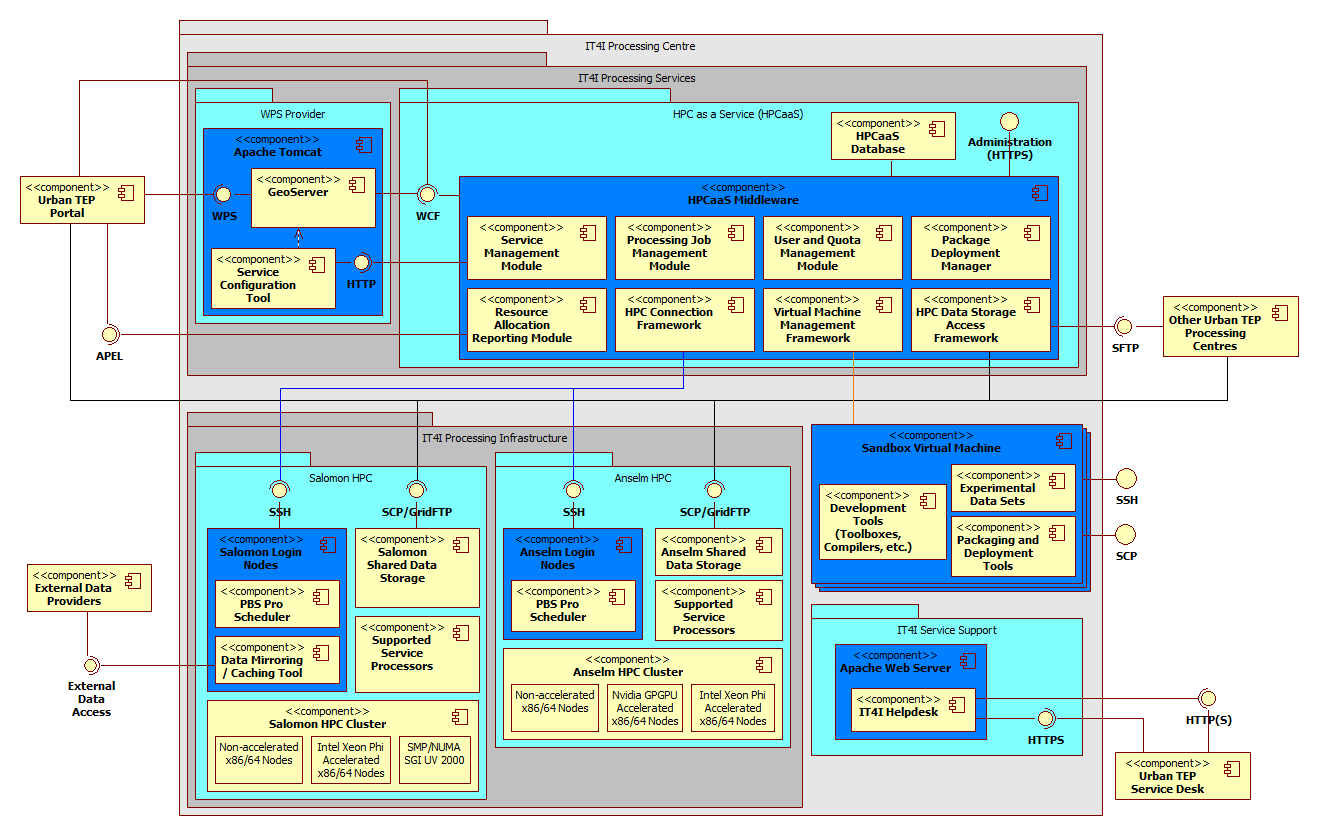
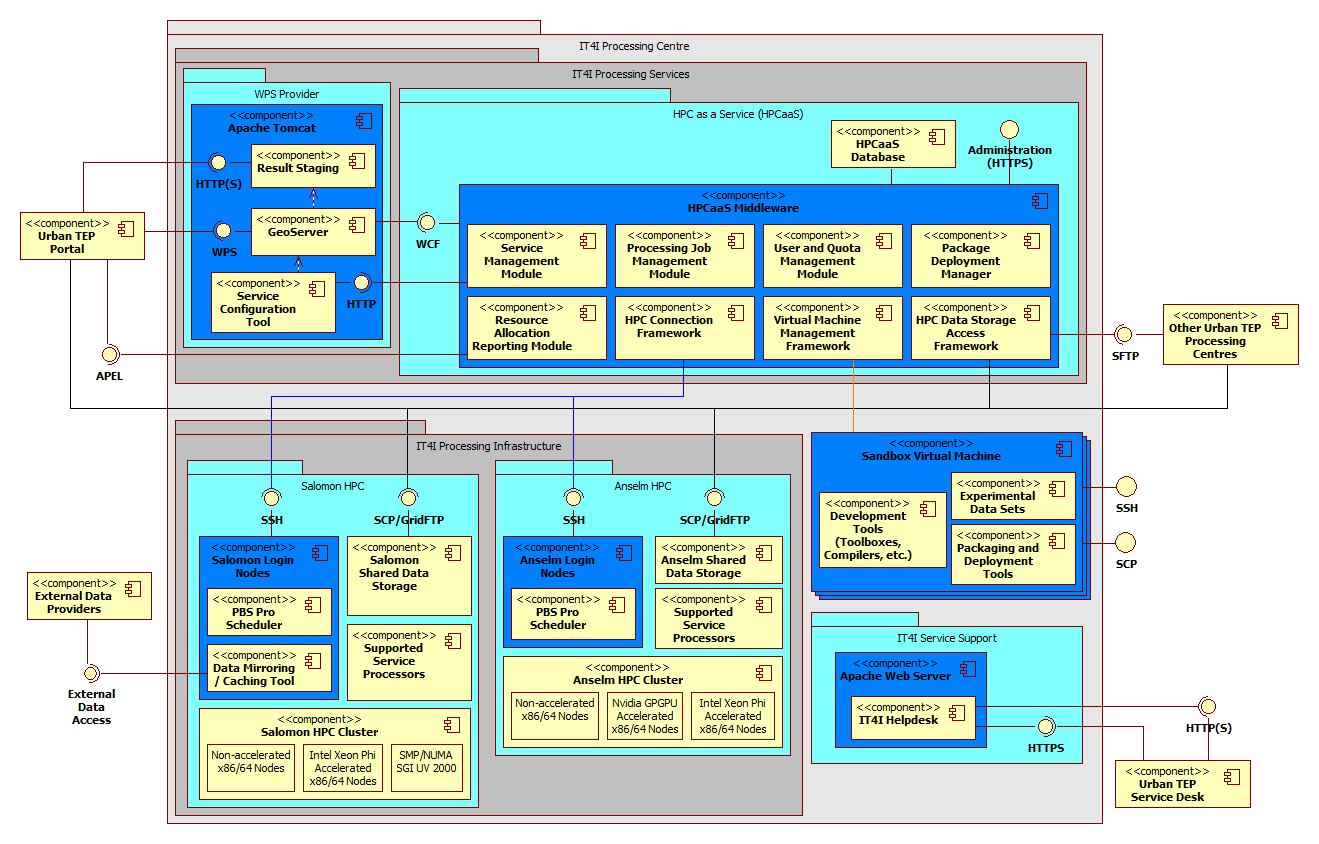
HTTP result staging for IT4I PC
Added HTTP result staging for IT4I PC.
Moved requirement coverage tags to the beginnings of the sections.

diff --git a/source/architecture/it4i-pc/hpc_as_a_service.rst b/source/architecture/it4i-pc/hpc_as_a_service.rst
@@ -2,12 +2,12 @@
 
 IT4I HPC as a Service
 =====================
-The *HPC as a Service Middleware* is an IT4I in-house developed solution designed to simplify the access to HPC resources for internal and external applications. This solution unifies access to different HPC systems in the *IT4I Processing Infrastructure* through a simple object-oriented client-server interface using WCF services. It also ensures all necessary supporting functions like service management, job management, monitoring and reporting, user authentication and authorization, request/result data transfer and encryption and various notification mechanisms. It is therefore the main control component of the IT4I processing centre and integrates most of its processing workflow and configuration functionalities.
-
 .. req:: TS-FUN-710
   :show:
 
   The *HPC as a Service Middleware* and its modules will maintain the list of processing jobs at the IT4I processing centre.
+
+The *HPC as a Service Middleware* is an IT4I in-house developed solution designed to simplify the access to HPC resources for internal and external applications. This solution unifies access to different HPC systems in the *IT4I Processing Infrastructure* through a simple object-oriented client-server interface using WCF services. It also ensures all necessary supporting functions like service management, job management, monitoring and reporting, user authentication and authorization, request/result data transfer and encryption and various notification mechanisms. It is therefore the main control component of the IT4I processing centre and integrates most of its processing workflow and configuration functionalities.
 
 The *HPC as a Service Middleware* is a web-based .NET application that will be deployed on one virtual server in the IT4I virtualisation infrastructure. It will provide a REST-ful WCF service interface for processing all requests from the *GeoServer* and possibly from the *Urban TEP Portal* for non-WPS auxiliary services, and HTTPS administration interface for *IT4I Service Support Operators*. All workflow management and configuration data will be stored in a RDBMS that will be deployed on the same server.
 
@@ -16,8 +16,6 @@ The *HPC as a Service Middleware* defines several modules that cover different c
 
 Service management module
 -------------------------
-The *Service Management Module* manages information and configuration of all processing services supported on the IT4I processing centre. Its main goal is to properly configure the processing jobs that will be submitted to the IT4I clusters based on user inputs and service configuration. It also ensures that service configurations are synchronised with the *WPS Provider* using the *Service Configuration Tool*. All service configurations are stored in the database and administered using the HTTPS administration interface of the *HPC as a Service Middleware*.
-
 .. req:: TS-FUN-680
   :show:
 
@@ -28,23 +26,21 @@ The *Service Management Module* manages information and configuration of all pro
 
   The *Service Management Module* will generate a metadata record and submit it to the *Service Configuration Tool* that will submit it to the catalogue at the IT4I processing centre and subsequently generates a metadata record and submits it to the Urban TEP catalogue.
 
+The *Service Management Module* manages information and configuration of all processing services supported on the IT4I processing centre. Its main goal is to properly configure the processing jobs that will be submitted to the IT4I clusters based on user inputs and service configuration. It also ensures that service configurations are synchronised with the *WPS Provider* using the *Service Configuration Tool*. All service configurations are stored in the database and administered using the HTTPS administration interface of the *HPC as a Service Middleware*.
+
 
 Processing job management module
 --------------------------------
-The *Job Management Module* contains functionality for managing processing jobs sent from the *Urban TEP Portal* on each supported HPC cluster in the IT4I processing infrastructure. This management contains submitting new jobs onto a specific cluster, cancelling a running or queued job on the cluster and getting actual information about individual user's jobs submitted to any managed cluster. Users have to be authenticated through the *User and Quota Management Module* before they can manage their jobs on the cluster. Information about all submitted jobs is stored in the database for monitoring and reporting purposes.
-
 .. req:: TS-FUN-680
   :show:
 
   The *Processing Job Management Module* will submit jobs to execute any of the supported service processors at the IT4I processing centre.
 
+The *Job Management Module* contains functionality for managing processing jobs sent from the *Urban TEP Portal* on each supported HPC cluster in the IT4I processing infrastructure. This management contains submitting new jobs onto a specific cluster, cancelling a running or queued job on the cluster and getting actual information about individual user's jobs submitted to any managed cluster. Users have to be authenticated through the *User and Quota Management Module* before they can manage their jobs on the cluster. Information about all submitted jobs is stored in the database for monitoring and reporting purposes.
+
 
 User and quota management module
 --------------------------------
-The *User and Quota Management Module* is used for managing users that will be submitting jobs to supported clusters. The first part of this module is the administration part that manages the user database and their quotas for cluster usage. The second part is the authentication and authorisation part that checks access of all requests to the *HPC as a Service Middleware*, provides actual usage and quota information and provides the number of available resources that the user can use for processing.
-
-This module allows flexible approach to user management between the Urban TEP Portal and the IT4I processing centre. It fully supports the currently planned approach of authentication and authorisation by the portal, but it can also support basic synchronisation of user databases between the portal and the HPC as a Service to further enhance the security, access control and quota management with finer granularity at the IT4I processing centre.
-
 .. req:: TS-RES-630
   :show:
 
@@ -55,11 +51,13 @@ This module allows flexible approach to user management between the Urban TEP Po
 
   The *User and Quota Management Module* will authenticate user request from the portal and authorise their access to supported processing services at the IT4I processing centre.
 
+The *User and Quota Management Module* is used for managing users that will be submitting jobs to supported clusters. The first part of this module is the administration part that manages the user database and their quotas for cluster usage. The second part is the authentication and authorisation part that checks access of all requests to the *HPC as a Service Middleware*, provides actual usage and quota information and provides the number of available resources that the user can use for processing.
+
+This module allows flexible approach to user management between the Urban TEP Portal and the IT4I processing centre. It fully supports the currently planned approach of authentication and authorisation by the portal, but it can also support basic synchronisation of user databases between the portal and the HPC as a Service to further enhance the security, access control and quota management with finer granularity at the IT4I processing centre.
+
 
 Package deployment manager
 --------------------------
-The *Package Deployment Manager* manages deployment of the user developed processors that have been packaged by the supported packaging tools and registered to the Portal. It takes the package sent by the user through the Portal, uploads it into the *IT4I Processing Infrastructure* with the help of the *HPC Data Storage Access Framework*, deploys it to the *Supported Service Processors* on the supported HPC clusters in the infrastructure using the *HPC Connection Framework* and registers it as a new service through the *Service Management Module*. This procedure ensures that processing with the packaged processor will be available as a WPS service in the IT4I Processing centre accessible from the Portal.
-
 .. req:: TS-FUN-740
   :show:
 
@@ -70,11 +68,11 @@ The *Package Deployment Manager* manages deployment of the user developed proces
 
   The *Package Deployment Manager* will support upload and deployment of user developed algorithms to the IT4I processing centre.
 
+The *Package Deployment Manager* manages deployment of the user developed processors that have been packaged by the supported packaging tools and registered to the Portal. It takes the package sent by the user through the Portal, uploads it into the *IT4I Processing Infrastructure* with the help of the *HPC Data Storage Access Framework*, deploys it to the *Supported Service Processors* on the supported HPC clusters in the infrastructure using the *HPC Connection Framework* and registers it as a new service through the *Service Management Module*. This procedure ensures that processing with the packaged processor will be available as a WPS service in the IT4I Processing centre accessible from the Portal.
+
 
 Resource allocation reporting module
 ------------------------------------
-The *Resource Allocation Reporting Module* provides reporting functionality for cluster usage for individual users and projects. These usage reports can then be used for accounting and will contain information about corehours and type of computing resources used. These reports can be created individually for each user or each project. The *Resource Allocation Reporting Module* will also send the reports to the APEL reporting interface provided by the *Urban TEP Portal*.
-
 .. req:: TS-FUN-710
   :show:
 
@@ -85,25 +83,23 @@ The *Resource Allocation Reporting Module* provides reporting functionality for 
 
   The *Resource Allocation Reporting Module* will report resource allocation for submitted processing jobs at the IT4I processing centre to the APEL accounting interface.
 
+The *Resource Allocation Reporting Module* provides reporting functionality for cluster usage for individual users and projects. These usage reports can then be used for accounting and will contain information about corehours and type of computing resources used. These reports can be created individually for each user or each project. The *Resource Allocation Reporting Module* will also send the reports to the APEL reporting interface provided by the *Urban TEP Portal*.
+
 
 HPC connection framework
 ------------------------
-The *HPC Connection Framework* provides unified access to all supported IT4I clusters, takes into account specific connection requirements and protocols for each HPC cluster and ensures proper translation of service and processing job configurations to the selected cluster operating and scheduling system. This framework therefore encapsulates all communication between the *HPC as a Service Middleware* and IT4I HPC clusters, except for the file transfer that is managed by the *HPC Data Storage Access Framework*.
-
-The *HPC Connection Framework* currently supports SSH connection to both *Anselm HPC* and *Salomon HPC* clusters along with Windows HPC API connection to internal Windows HPC clusters. The framework also houses the functionality to provide information about the total and currently available resources for each supported cluster.
-
 .. req:: TS-RES-630
   :show:
 
   The *HPC Connection Framework* will manage and monitor all resources and queues for HPC clusters at the IT4I processing centre.
 
+The *HPC Connection Framework* provides unified access to all supported IT4I clusters, takes into account specific connection requirements and protocols for each HPC cluster and ensures proper translation of service and processing job configurations to the selected cluster operating and scheduling system. This framework therefore encapsulates all communication between the *HPC as a Service Middleware* and IT4I HPC clusters, except for the file transfer that is managed by the *HPC Data Storage Access Framework*.
+
+The *HPC Connection Framework* currently supports SSH connection to both *Anselm HPC* and *Salomon HPC* clusters along with Windows HPC API connection to internal Windows HPC clusters. The framework also houses the functionality to provide information about the total and currently available resources for each supported cluster.
+
 
 Virtual machine management framework
 ------------------------------------
-The *Virtual Machine Management Framework* manages the whole life cycle and access to virtual machines (VMs), which serve as experimental development environments (Sandboxes) for Urban TEP users that want to create their own processors and register them in the Urban TEP platform (see :ref:`it4ipc_sandbox_vm`). The *Virtual Machine Management Framework* will ensure proper hosting of these VMs in the shared Salomon supercomputer infrastructure for well-known users and provide connection information and access credentials to the hosted machines, or provide them as VM images for download by the users to work on locally.
-
-Each properly certified well-known user will have access to his own VM that will contain his data (in a specific folder) from previous Sandbox VM instances that were hosted on the IT4I infrastructure. More information about VM provisioning can be found in :ref:`develenv_processor_development_environment`.
-
 .. req:: TS-FUN-750
   :show:
 
@@ -114,11 +110,13 @@ Each properly certified well-known user will have access to his own VM that will
 
   The *Virtual Machine Management Framework* will provide connection information and access credentials to the VMs with experimental development environment.
 
+The *Virtual Machine Management Framework* manages the whole life cycle and access to virtual machines (VMs), which serve as experimental development environments (Sandboxes) for Urban TEP users that want to create their own processors and register them in the Urban TEP platform (see :ref:`it4ipc_sandbox_vm`). The *Virtual Machine Management Framework* will ensure proper hosting of these VMs in the shared Salomon supercomputer infrastructure for well-known users and provide connection information and access credentials to the hosted machines, or provide them as VM images for download by the users to work on locally.
+
+Each properly certified well-known user will have access to his own VM that will contain his data (in a specific folder) from previous Sandbox VM instances that were hosted on the IT4I infrastructure. More information about VM provisioning can be found in :ref:`develenv_processor_development_environment`.
+
 
 HPC data storage access framework
 ---------------------------------
-The *HPC Data Storage Access Framework* provides functions that ensure transferring files from the *Urban TEP Portal* or other Urban TEP processing centres to the user specific session on the HPC cluster that will be used to execute a processing service. The communication with the *Urban TEP Portal* includes sending input files of the job to the cluster, synchronizing changes in important files during the execution of the job on the cluster, sending all results from the cluster to the portal after the job finishes and possibly deleting files from the cluster to clean the user's session. When exchanging data with other processing centres, the *HPC Data Storage Access Framework* either sends proper data to the other processing centre or downloads necessary input data hosted on a different processing centre and caches them on the selected HPC cluster using, possibly deleting them after the processing is finished.
-
 .. req:: TS-FUN-690
   :show:
 
@@ -134,9 +132,6 @@ The *HPC Data Storage Access Framework* provides functions that ensure transferr
 
   The *HPC Data Storage Access Framework* will provide the connection to SCP/GridFTP interface for accessing processing results to the portal at the IT4I processing centre.
 
-
-To avoid transferring big amounts of data through the *HPC as a Service Middleware* and overloading the server and network connection with unnecessary data transfer, the *HPC Data Storage Access Framework* is able to open a temporary authenticated connection with limited access directly to the *Shared Data Storage* of the selected HPC cluster and provide this connection to the client that wants to transfer the data, be it the *Urban TEP Portal* or other Urban TEP processing centre. In this way, it is possible to transfer big amounts of data directly to the cluster where the *HPC as a Service Middleware* only controls the connection. After the connection is used, it is automatically closed by the middleware.
-
 .. req:: TS-FUN-630
   :show:
 
@@ -147,5 +142,8 @@ To avoid transferring big amounts of data through the *HPC as a Service Middlewa
 
   The *HPC Data Storage Access Framework* will ensure the exchange interface with other processing centres by providing connection information to the direct SCP and GridFTP interface of the *Shared Data Storage*.
 
+The *HPC Data Storage Access Framework* provides functions that ensure transferring files from the *Urban TEP Portal* or other Urban TEP processing centres to the user specific session on the HPC cluster that will be used to execute a processing service. The communication with the *Urban TEP Portal* includes sending input files of the job to the cluster, synchronizing changes in important files during the execution of the job on the cluster, sending all results from the cluster to the portal after the job finishes and possibly deleting files from the cluster to clean the user's session. When exchanging data with other processing centres, the *HPC Data Storage Access Framework* either sends proper data to the other processing centre or downloads necessary input data hosted on a different processing centre and caches them on the selected HPC cluster using, possibly deleting them after the processing is finished.
+
+To avoid transferring big amounts of data through the *HPC as a Service Middleware* and overloading the server and network connection with unnecessary data transfer, the *HPC Data Storage Access Framework* is able to open a temporary authenticated connection with limited access directly to the *Shared Data Storage* of the selected HPC cluster and provide this connection to the client that wants to transfer the data, be it the *Urban TEP Portal* or other Urban TEP processing centre. In this way, it is possible to transfer big amounts of data directly to the cluster where the *HPC as a Service Middleware* only manages the connection. After the connection is used, it is automatically closed by the middleware.
 
 The *HPC Data Storage Access Framework* currently supports SCP transfer to *Anselm HPC* and *Salomon HPC* clusters along with network share/Samba interface for internal Windows HPC clusters. Connection functionalities to other Urban TEP processing centres will be added to the framework during Phase 2 of the project based on their specific interfaces.

diff --git a/source/architecture/it4i-pc/processing_infrastructure.rst b/source/architecture/it4i-pc/processing_infrastructure.rst
@@ -7,12 +7,6 @@ The *IT4I Processing Infrastructure* contains two Linux-based HPC clusters - *An
 
 Login nodes
 -----------
-Each cluster contains login nodes that are used for accessing the cluster environment and managing jobs. These login nodes serve as a single point for accessing the computational resources on the cluster and executing processing services. They are accessible through the SSH interface and the *HPCaaS HPC Connection Framework* uses this interface to submit processing jobs on the clusters. All processing requests in the Urban TEP platform has to go through the *HPC as a Service Middleware*, so the connections to *Login Nodes* are not provided to the *Urban TEP Portal* or any other part of the platform.
-
-All login nodes for both *Salomon* and *Anselm* clusters are running the *PBS Pro Scheduler* software, which efficiently distributes workloads across the computing resources on the related HPC cluster. These schedulers are independent, so jobs submitted on the *Salomon* cluster are only scheduled on *Salomon* and not on *Anselm* and vice versa. The *HPCaaS Middleware* therefore needs to know, which cluster is relevant for each processed service and submitted job. The *HPCaaS HPC Connection Framework* then uses the *PBS Pro Scheduler* to queue the processing jobs and monitor their status. By reconfiguring used queues in the *PBS Pro Scheduler* it is possible to dedicate a part of the cluster for executing Urban TEP services or let them compete over resources with other projects. It is also possible to change the configuration of the queues during runtime to react to the demand.
-
-The final Urban TEP related component on the *Login Nodes* is the *Data Mirroring / Caching Tool* that is currently present only on the *Salomon HPC*. This component connects to the external data providers and downloads service related data for long-term mirroring or short-term caching. It is deployed directly on the *Login Nodes* to have direct access to the *Shared Data Storage* on the *Salomon HPC* and store the data directly on the processing environment. This component is currently implemented to download LandSat data and will be extended with other data providers during Phase 2 of the Urban TEP project.
-
 .. req:: TS-FUN-610
   :show:
 
@@ -23,13 +17,15 @@ The final Urban TEP related component on the *Login Nodes* is the *Data Mirrorin
 
   The *Data Mirroring / Caching Tool* will provide the status of data ingestion on the IT4I processing infrastructure to the *HPC as a Service Middleware* that will update the service description using the *Service Configuration Tool*.
 
+Each cluster contains login nodes that are used for accessing the cluster environment and managing jobs. These login nodes serve as a single point for accessing the computational resources on the cluster and executing processing services. They are accessible through the SSH interface and the *HPCaaS HPC Connection Framework* uses this interface to submit processing jobs on the clusters. All processing requests in the Urban TEP platform has to go through the *HPC as a Service Middleware*, so the connections to *Login Nodes* are not provided to the *Urban TEP Portal* or any other part of the platform.
+
+All login nodes for both *Salomon* and *Anselm* clusters are running the *PBS Pro Scheduler* software, which efficiently distributes workloads across the computing resources on the related HPC cluster. These schedulers are independent, so jobs submitted on the *Salomon* cluster are only scheduled on *Salomon* and not on *Anselm* and vice versa. The *HPCaaS Middleware* therefore needs to know, which cluster is relevant for each processed service and submitted job. The *HPCaaS HPC Connection Framework* then uses the *PBS Pro Scheduler* to queue the processing jobs and monitor their status. By reconfiguring used queues in the *PBS Pro Scheduler* it is possible to dedicate a part of the cluster for executing Urban TEP services or let them compete over resources with other projects. It is also possible to change the configuration of the queues during runtime to react to the demand.
+
+The final Urban TEP related component on the *Login Nodes* is the *Data Mirroring / Caching Tool* that is currently present only on the *Salomon HPC*. This component connects to the external data providers and downloads service related data for long-term mirroring or short-term caching. It is deployed directly on the *Login Nodes* to have direct access to the *Shared Data Storage* on the *Salomon HPC* and store the data directly on the processing environment. This component is currently implemented to download LandSat data and will be extended with other data providers during Phase 2 of the Urban TEP project.
+
 
 Shared data storages
 --------------------
-Both clusters contain a *Shared Data Storage* specific for each cluster that is shared between all computing nodes of the specific cluster. This storage is used for the long-term mirrored data, short-term cached data, configuration and processing data of currently submitted jobs and processing results of finished jobs that were not yet downloaded by the *Urban TEP Portal* and deleted from the processing infrastructure.
-
-The *Shared Data Storage* of each cluster is accessible by the SCP and GridFTP interface and access to this interface is managed by the *HPCaaS HPC Data Storage Access Module*, that can open a temporary authenticated connection with limited access and provide it to the client that wants to transfer the data, be it the *Urban TEP Portal* or other Urban TEP processing centre. In this way, the *Urban TEP Portal* can for example download processing results of specific job without transferring the data through the *HPCaaS Middleware*, but it first needs to send an authenticated request to the middleware so that it can open and provide the connection.
-
 .. req:: TS-FUN-630
   :show:
 
@@ -55,14 +51,15 @@ The *Shared Data Storage* of each cluster is accessible by the SCP and GridFTP i
 
   The *Shared Data Storage* will provide SCP/GridFTP interface for exchange of processors and data with other processing centres.
 
+Both clusters contain a *Shared Data Storage* specific for each cluster that is shared between all computing nodes of the specific cluster. This storage is used for the long-term mirrored data, short-term cached data, configuration and processing data of currently submitted jobs and processing results of finished jobs that were not yet downloaded by the *Urban TEP Portal* and deleted from the processing infrastructure.
+
+The *Shared Data Storage* of each cluster is accessible by the SCP and GridFTP interface and access to this interface is managed by the *HPCaaS HPC Data Storage Access Module*, that can open a temporary authenticated connection with limited access and provide it to the client that wants to transfer the data, be it the *Urban TEP Portal* or other Urban TEP processing centre. In this way, the *Urban TEP Portal* can for example download processing results of specific job without transferring the data through the *HPCaaS Middleware*, but it first needs to send an authenticated request to the middleware so that it can open and provide the connection.
 
 As the storages are not shared between clusters, when executing processing services on the *Anselm HPC cluster*, the necessary input data have to be transferred from the *Salomon HPC cluster* first.
 
 
 Supported service processors
 ----------------------------
-The *Supported Service Processors* are applications that are responsible for the computations performed in the platform. The processors that will be supported by the IT4I processing centre will be deployed on the *Salomon Shared Data Storage* and possibly *Anselm Shared Data Storage* and will be directly available on the computing resources on these clusters. They will be deployed as basic Linux-based applications and will be able to use all languages, runtime environments, libraries and tools installed on the processing infrastructure.
-
 .. req:: TS-FUN-660
   :show:
 
@@ -93,17 +90,11 @@ The *Supported Service Processors* are applications that are responsible for the
 
   The *Supported Service Processors* contain all versions of the supported service processors that are deployed for processing at the IT4I processing centre.
 
+The *Supported Service Processors* are applications that are responsible for the computations performed in the platform. The processors that will be supported by the IT4I processing centre will be deployed on the *Salomon Shared Data Storage* and possibly *Anselm Shared Data Storage* and will be directly available on the computing resources on these clusters. They will be deployed as basic Linux-based applications and will be able to use all languages, runtime environments, libraries and tools installed on the processing infrastructure.
+
 
 HPC clusters
 ------------
-The HPC clusters themselves are used for computing by executing processing service processors. The structure of both clusters is similar but with significant differences in the number and power of their computing nodes.
-
-The *Salomon HPC cluster* is currently (November 2015) the top 48th supercomputer in the TOP500 list1 and consists of 1008 computational nodes of which 576 are regular compute nodes and 432 accelerated nodes. Each node is a powerful x86-64 computer, equipped with 24 cores (two twelve-core Intel Xeon E5-2680v3 processors) and 128GB RAM. The accelerated nodes are additionally equipped with Intel Xeon Phi 7120P MIC accelerators. All nodes are interconnected by 7D Enhanced hypercube InfiniBand network. All nodes share 0.5PB NFS disk storage to store the user files and a DDN Lustre shared storage with a capacity of 1.69 PB, which is available for the temporary processing data. The total theoretical peak performance of the Salomon cluster is 2011 Tflop/s.
-
-The *Anselm HPC cluster* consists of 209 computational nodes, of which 180 are regular computing nodes, 23 are GPU Kepler K20 accelerated nodes, 4 are MIC Xeon Phi 5110 accelerated nodes and 2 are fat nodes. Each node is an x86-64 computer, equipped with 16 cores (two eight-core Intel Sandy Bridge E5-2665 or E5-2470 processors), at least 64GB RAM, and local hard drive. The nodes are interlinked by high speed InfiniBand QDR, fully non-blocking, fat-tree network. All nodes share 320TB disk storage to store the user files and 146TB shared storage for temporary processing data. The total theoretical peak performance of the Anselm cluster is 94 Tflop/s.
-
-As GPGPU accelerated nodes are only present on the Anselm HPC cluster, any service processors that are accelerated by GPGPUs have to be executed on the *Anselm HPC cluster*.
-
 .. req:: TS-FUN-670
   :show:
 
@@ -114,3 +105,10 @@ As GPGPU accelerated nodes are only present on the Anselm HPC cluster, any servi
 
   The *HPC Clusters* will execute the supported service processors at the IT4I processing centre.
 
+The HPC clusters themselves are used for computing by executing processing service processors. The structure of both clusters is similar but with significant differences in the number and power of their computing nodes.
+
+The *Salomon HPC cluster* is currently (November 2015) the top 48th supercomputer in the TOP500 list1 and consists of 1008 computational nodes of which 576 are regular compute nodes and 432 accelerated nodes. Each node is a powerful x86-64 computer, equipped with 24 cores (two twelve-core Intel Xeon E5-2680v3 processors) and 128GB RAM. The accelerated nodes are additionally equipped with Intel Xeon Phi 7120P MIC accelerators. All nodes are interconnected by 7D Enhanced hypercube InfiniBand network. All nodes share 0.5PB NFS disk storage to store the user files and a DDN Lustre shared storage with a capacity of 1.69 PB, which is available for the temporary processing data. The total theoretical peak performance of the Salomon cluster is 2011 Tflop/s.
+
+The *Anselm HPC cluster* consists of 209 computational nodes, of which 180 are regular computing nodes, 23 are GPU Kepler K20 accelerated nodes, 4 are MIC Xeon Phi 5110 accelerated nodes and 2 are fat nodes. Each node is an x86-64 computer, equipped with 16 cores (two eight-core Intel Sandy Bridge E5-2665 or E5-2470 processors), at least 64GB RAM, and local hard drive. The nodes are interlinked by high speed InfiniBand QDR, fully non-blocking, fat-tree network. All nodes share 320TB disk storage to store the user files and 146TB shared storage for temporary processing data. The total theoretical peak performance of the Anselm cluster is 94 Tflop/s.
+
+As GPGPU accelerated nodes are only present on the Anselm HPC cluster, any service processors that are accelerated by GPGPUs have to be executed on the *Anselm HPC cluster*.

diff --git a/source/architecture/it4i-pc/wps_provider.rst b/source/architecture/it4i-pc/wps_provider.rst
@@ -7,10 +7,6 @@ The WPS Provider package contains components that publish the processing functio
 
 GeoServer
 ---------
-As OGC WPS is the main interface for executing processing services in the Urban TEP platform, IT4I will build all WPS related functionality on *GeoServer*, which is an open source server for sharing geospatial data. *GeoServer* is an OGC compliant implementation of a number of open standards such as Web Feature Service (WFS), Web Map Service (WMS), and Web Coverage Service (WCS). Additional formats and publication options are available including Web Map Tile Service (WMTS) and extensions for Catalogue Service (CSW) and finally Web Processing Service (WPS). (http://geoserver.org/)
-
-Whenever the *Urban TEP Portal* wants to discover, which services are available in the IT4I processing centre, or wants to execute any of these services, it sends WPS reguests to the *GeoServer*. *GeoServer* then either provides the information about supported services in its service catalogue or starts the configured execution workflow related to the requested service. All processing workflow requests are then forwarded to the *HPC as a Service* solution that manages all processing jobs and information about available HPC clusters and their resources.
-
 .. req:: TS-FUN-640
   :show:
 
@@ -41,16 +37,30 @@ Whenever the *Urban TEP Portal* wants to discover, which services are available 
 
   The *GeoServer* will provide the WPS interface for the IT4I processing centre.
 
+As OGC WPS is the main interface for executing processing services in the Urban TEP platform, IT4I will build all WPS related functionality on *GeoServer*, which is an open source server for sharing geospatial data. *GeoServer* is an OGC compliant implementation of a number of open standards such as Web Feature Service (WFS), Web Map Service (WMS), and Web Coverage Service (WCS). Additional formats and publication options are available including Web Map Tile Service (WMTS) and extensions for Catalogue Service (CSW) and finally Web Processing Service (WPS). (http://geoserver.org/)
 
+Whenever the *Urban TEP Portal* wants to discover, which services are available in the IT4I processing centre, or wants to execute any of these services, it sends WPS reguests to the *GeoServer*. *GeoServer* then either provides the information about supported services in its service catalogue or starts the configured execution workflow related to the requested service. All processing workflow requests are then forwarded to the *HPC as a Service* solution that manages all processing jobs and information about available HPC clusters and their resources.
+
+
+Result staging
+--------------
+.. req:: TS-FUN-690
+  :show:
+
+  The *Result staging* will provide the processing results to the portal at the IT4I processing centre.
+
+To simplify the access to the processing results, they can be optionally staged to the web server and provided to download via an HTTP(S) interface. The general workflow of all Urban TEP WPS services hosted by the *Geoserver* will ensure that the processing results can be downloaded from the IT4I HPC clusters and staged by the *Result staging* component that will store the results to the web server and provide URLs to access these results by the Urban TEP Portal.
+
+This approach is optional, because it is not very effective - the data have to be copied from the HPC cluster to the staging server and only then can be downloaded by the Portal. This creates a bottleneck at the web server and creates additional requirements on the hardware infrastructure of the solution (mainly disk space on the web server). The other, more effective option is for the Portal to download the results directly from the HPC cluster via SCP/GridFTP (such connection is provided and managed by the *HPCaaS HPC Data Storage Access Framework*), so this will be a preferred solution. But as the initial version of the portal does not support the necessary SCP/GridFTP authentication and transfer, the HTTP result staging was added to the IT4I processing centre implementation.
 
 
 Service configuration tool
 --------------------------
-The *Service Configuration Tool* is an IT4I in-house J2EE solution that serves as an auxiliary tool for managing and updating configuration of supported services in the *GeoServer*. It is actually a web service-based adapter that synchronises the *HPC as a Service Middleware* and *GeoServer* service configurations to simplify the administration of both solutions. Whenever any change in the service configuration appears in *HPC as a Service* (either by a processing workflow or by administration intervention), the *Service Management Module* of the *HPC as a Service Middleware* synchronises the configuration changes with the *GeoServer* using the *Service Configuration Tool*.
-
-This solution will also generate a metadata record and submit it to the Urban TEP catalogue for any changes in service definition at the IT4I processing centre.
-
 .. req:: TS-FUN-700
   :show:
 
   The *Service Configuration Tool* will receive the metadata record from the *HPCaaS Service Management Module* and will submit it to the catalogue at the IT4I processing centre and subsequently generates a metadata record and submits it to the Urban TEP catalogue.
+
+The *Service Configuration Tool* is an IT4I in-house J2EE solution that serves as an auxiliary tool for managing and updating configuration of supported services in the *GeoServer*. It is actually a web service-based adapter that synchronises the *HPC as a Service Middleware* and *GeoServer* service configurations to simplify the administration of both solutions. Whenever any change in the service configuration appears in *HPC as a Service* (either by a processing workflow or by administration intervention), the *Service Management Module* of the *HPC as a Service Middleware* synchronises the configuration changes with the *GeoServer* using the *Service Configuration Tool*.
+
+This solution will also generate a metadata record and submit it to the Urban TEP catalogue for any changes in service definition at the IT4I processing centre.

diff --git a/source/architecture/it4i-pc/service_support.rst b/source/architecture/it4i-pc/service_support.rst
@@ -7,12 +7,6 @@ The *IT4I Service Support* will provide support for all things related to the IT
 
 IT4I helpdesk
 -------------
-The *IT4I Helpdesk* is a helpdesk solution that manages the issues and support requests related to the IT4I processing centre. This helpdesk will serve as a processing center specific third escalation level for *Urban TEP Service Desk* incident and problem management.
-
-The *IT4I Helpdesk* is a web-based solution deployed on a virtual server in IT4I virtualisation infrastructure and hosted on the Apache Web Server. It will provide HTTPS interface to the *Urban TEP Service Desk* to escalate selected issues. The *IT4I Helpdesk* will also send status updates for escalated issues via an HTTP(S) interface of the *Urban TEP Service Desk*.
-
-The issues tracked by the *IT4I Helpdesk* are solved by *IT4I Service Support Operators* that have access to all parts of the IT4I processing centre infrastructure.
-
 .. req:: TS-FUN-760
   :show:
 
@@ -22,3 +16,9 @@ The issues tracked by the *IT4I Helpdesk* are solved by *IT4I Service Support Op
   :show:
 
   The *IT4I Helpdesk* will track issues and requests addressed to the IT4I Processing Centre.
+
+The *IT4I Helpdesk* is a helpdesk solution that manages the issues and support requests related to the IT4I processing centre. This helpdesk will serve as a processing center specific third escalation level for *Urban TEP Service Desk* incident and problem management.
+
+The *IT4I Helpdesk* is a web-based solution deployed on a virtual server in IT4I virtualisation infrastructure and hosted on the Apache Web Server. It will provide HTTPS interface to the *Urban TEP Service Desk* to escalate selected issues. The *IT4I Helpdesk* will also send status updates for escalated issues via an HTTP(S) interface of the *Urban TEP Service Desk*.
+
+The issues tracked by the *IT4I Helpdesk* are solved by *IT4I Service Support Operators* that have access to all parts of the IT4I processing centre infrastructure.

diff --git a/source/architecture/it4i-pc/index.rst b/source/architecture/it4i-pc/index.rst
@@ -22,8 +22,8 @@ Before describing the components the main functions with their initiation and wo
      - the *Supported Service Processors* stored in the *Shared Data Storage* of the selected HPC cluster used for processing,
      - the input EO data available in the *Shared Data Storage* of the selected HPC cluster,
      - the storage of intermediates and outputs in the *Shared Data Storage* of the selected HPC cluster,
-     - the staging of results through the *SCP/GridFTP* interface,
-     - the *HPCaaS HPC Data Storage Access Framework* to provide access to the staged results via SCP/GridFTP,
+     - the staging of results through the *HTTPS/SCP/GridFTP* interface,
+     - the *Result Staging* to provide access to the staged results via HTTPS or the *HPCaaS HPC Data Storage Access Framework* to provide access to the staged results via SCP/GridFTP,
      - the *HPCaaS Service Management Module* with the help of the *Service Configuration Tool* and *Geoserver* for catalogue entry generation.
  * To ingest input data
      - the *IT4I Service Support Operator* to monitor ingestion,

diff --git a/source/introduction/changelog.rst b/source/introduction/changelog.rst
@@ -75,3 +75,7 @@ Change Log
 |         |            | architecture section 4.2.2, sentence added to section 2.1.3, paragraph on external          |
 |         |            | infrastructure demonstration case added to 2.1.3 [RID SP-54].                               |
 +---------+------------+---------------------------------------------------------------------------------------------+
+| 2.3     | 18/05/2016 | HTTP(S) result staging added to the IT4I Processing centre (sections 3.7 and 3.7.1)         |
+|         |            | to provide a simple interface for downloading the processing results for the initial        |
+|         |            | version of the portal.
++---------+------------+---------------------------------------------------------------------------------------------+

diff --git a/source/architecture/it4i-pc/sandbox_vm.rst b/source/architecture/it4i-pc/sandbox_vm.rst
@@ -2,8 +2,6 @@
 
 Sandbox virtual machines
 ========================
-Detailed information about Sandbox virtual machines is described in :ref:`develenv_processor_development_environment`.
-
 .. req:: TS-FUN-750
   :show:
 
@@ -19,3 +17,4 @@ Detailed information about Sandbox virtual machines is described in :ref:`devele
 
   The *Sandbox Virtual Machines* will provide SSH and SCP connection to the virtualised experimental development environment.
 
+Detailed information about Sandbox virtual machines is described in :ref:`develenv_processor_development_environment`.
